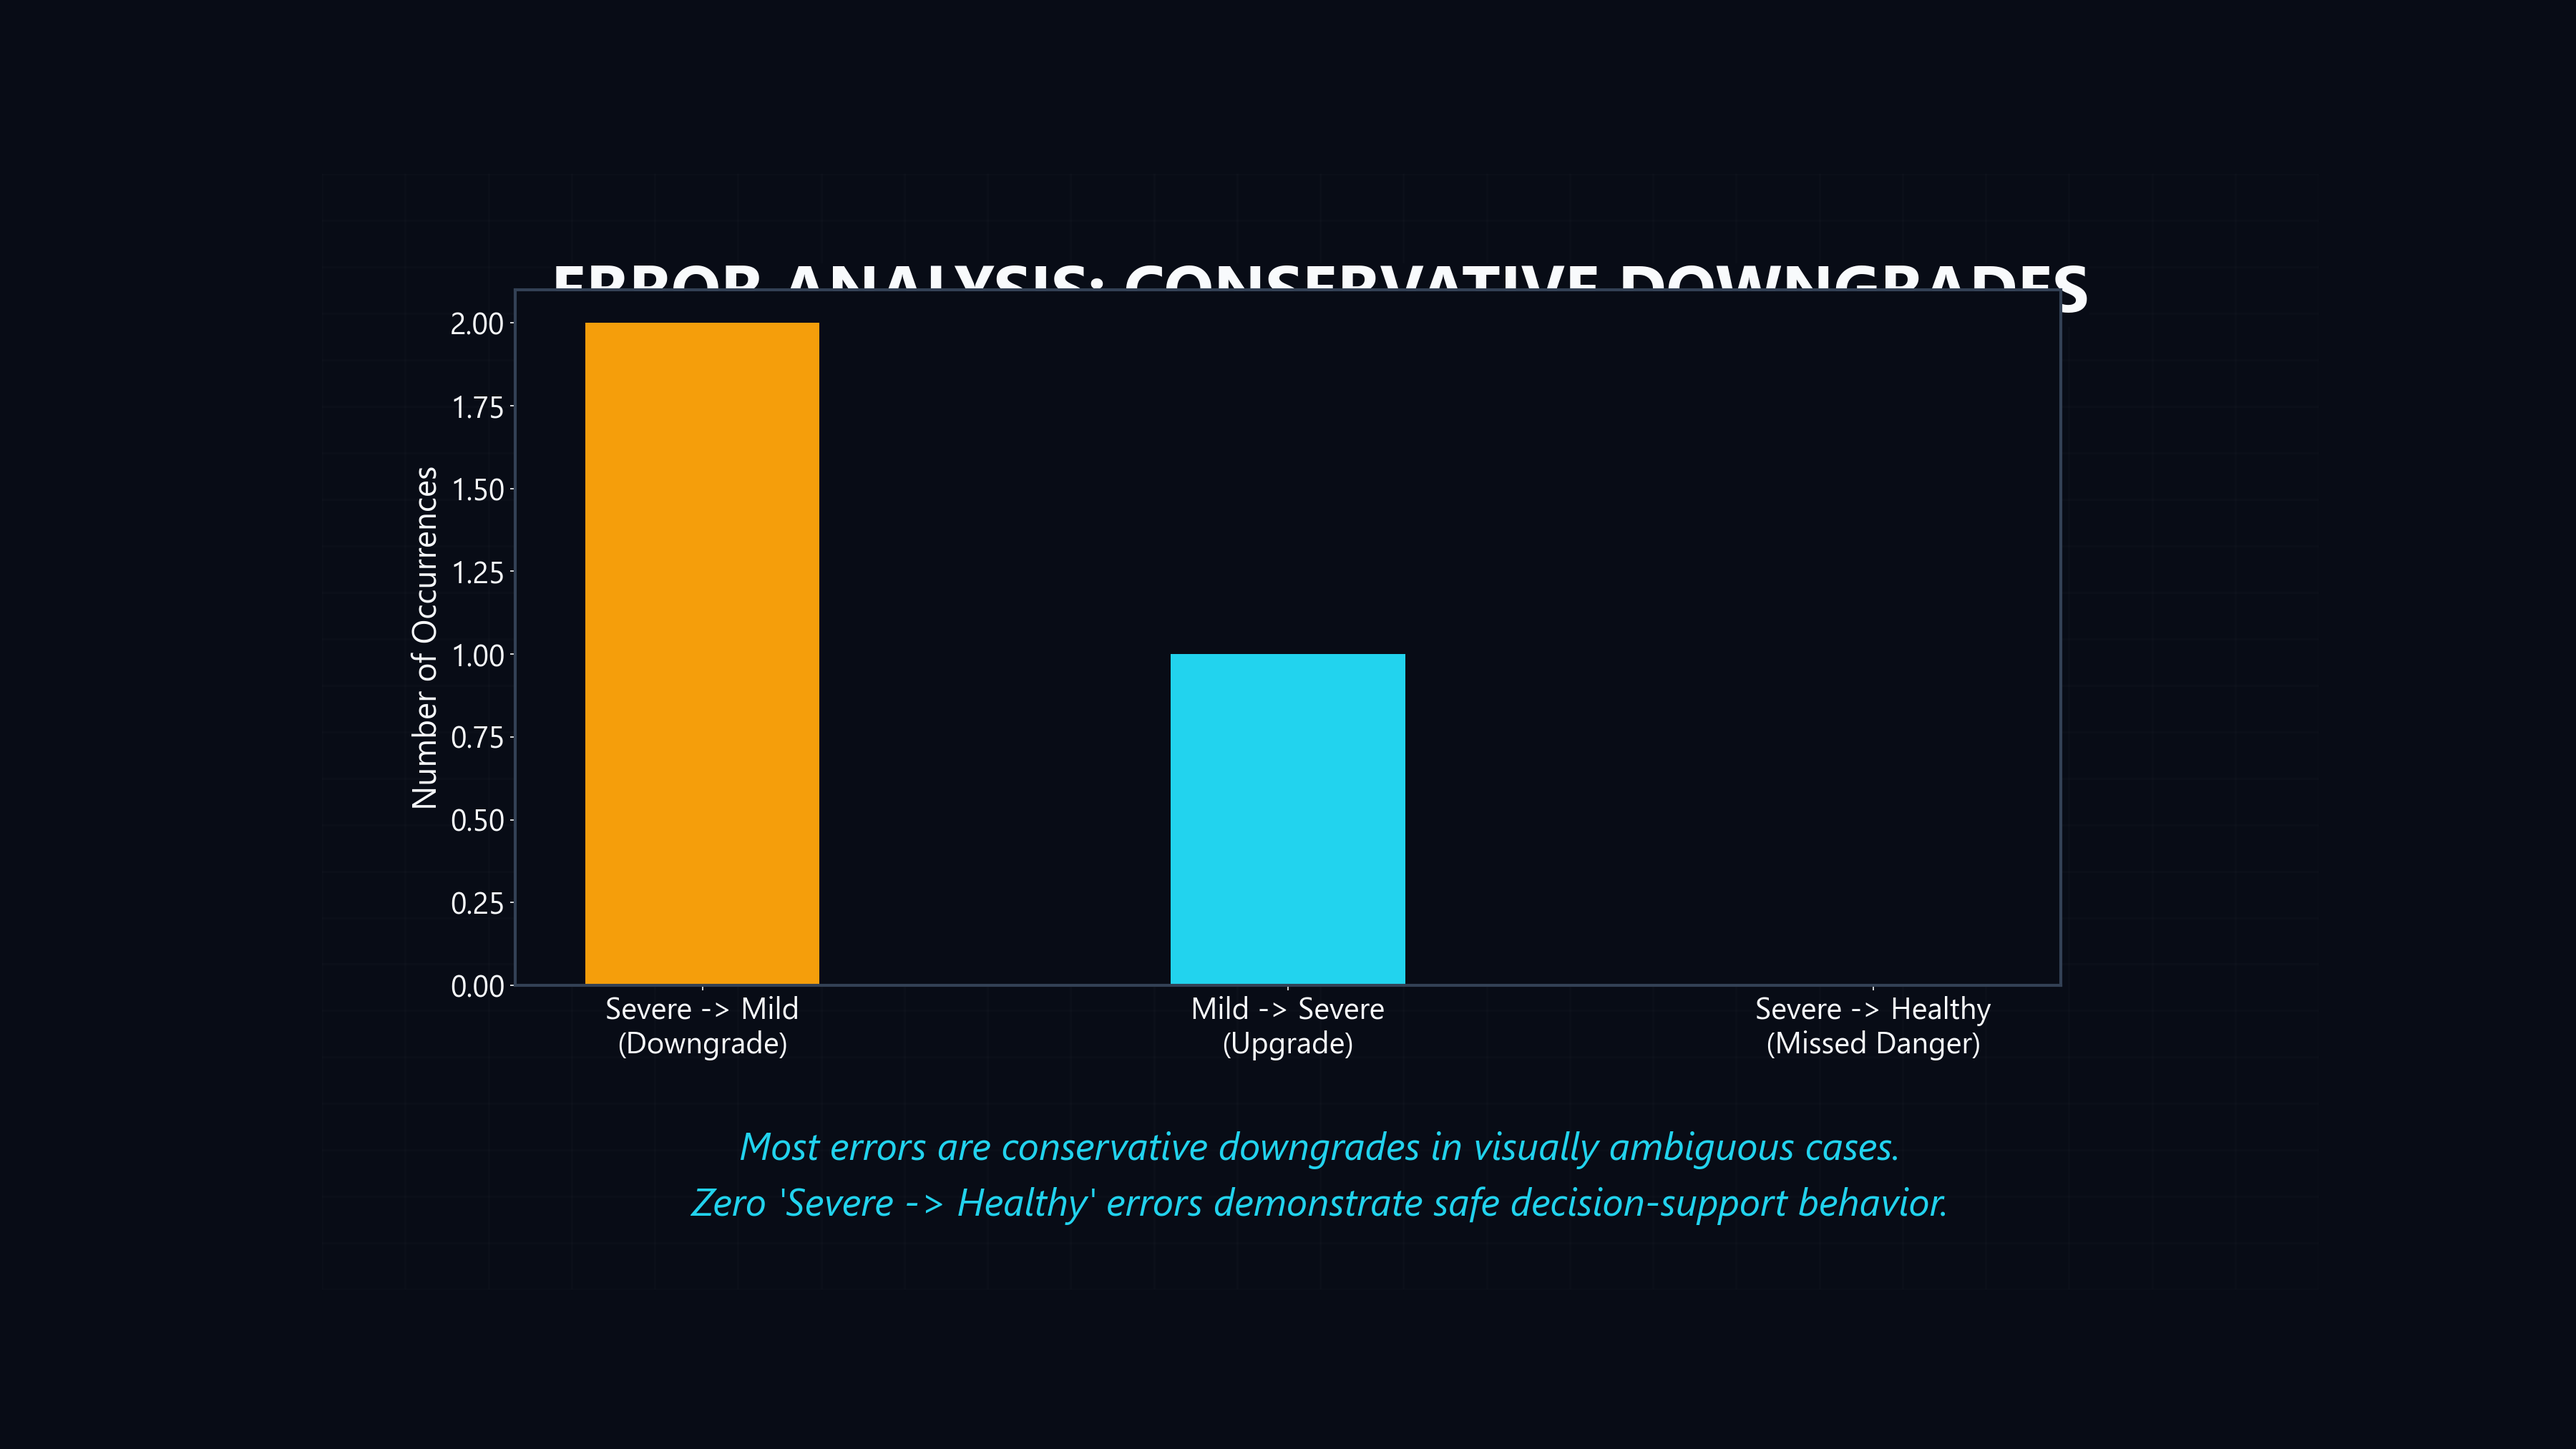
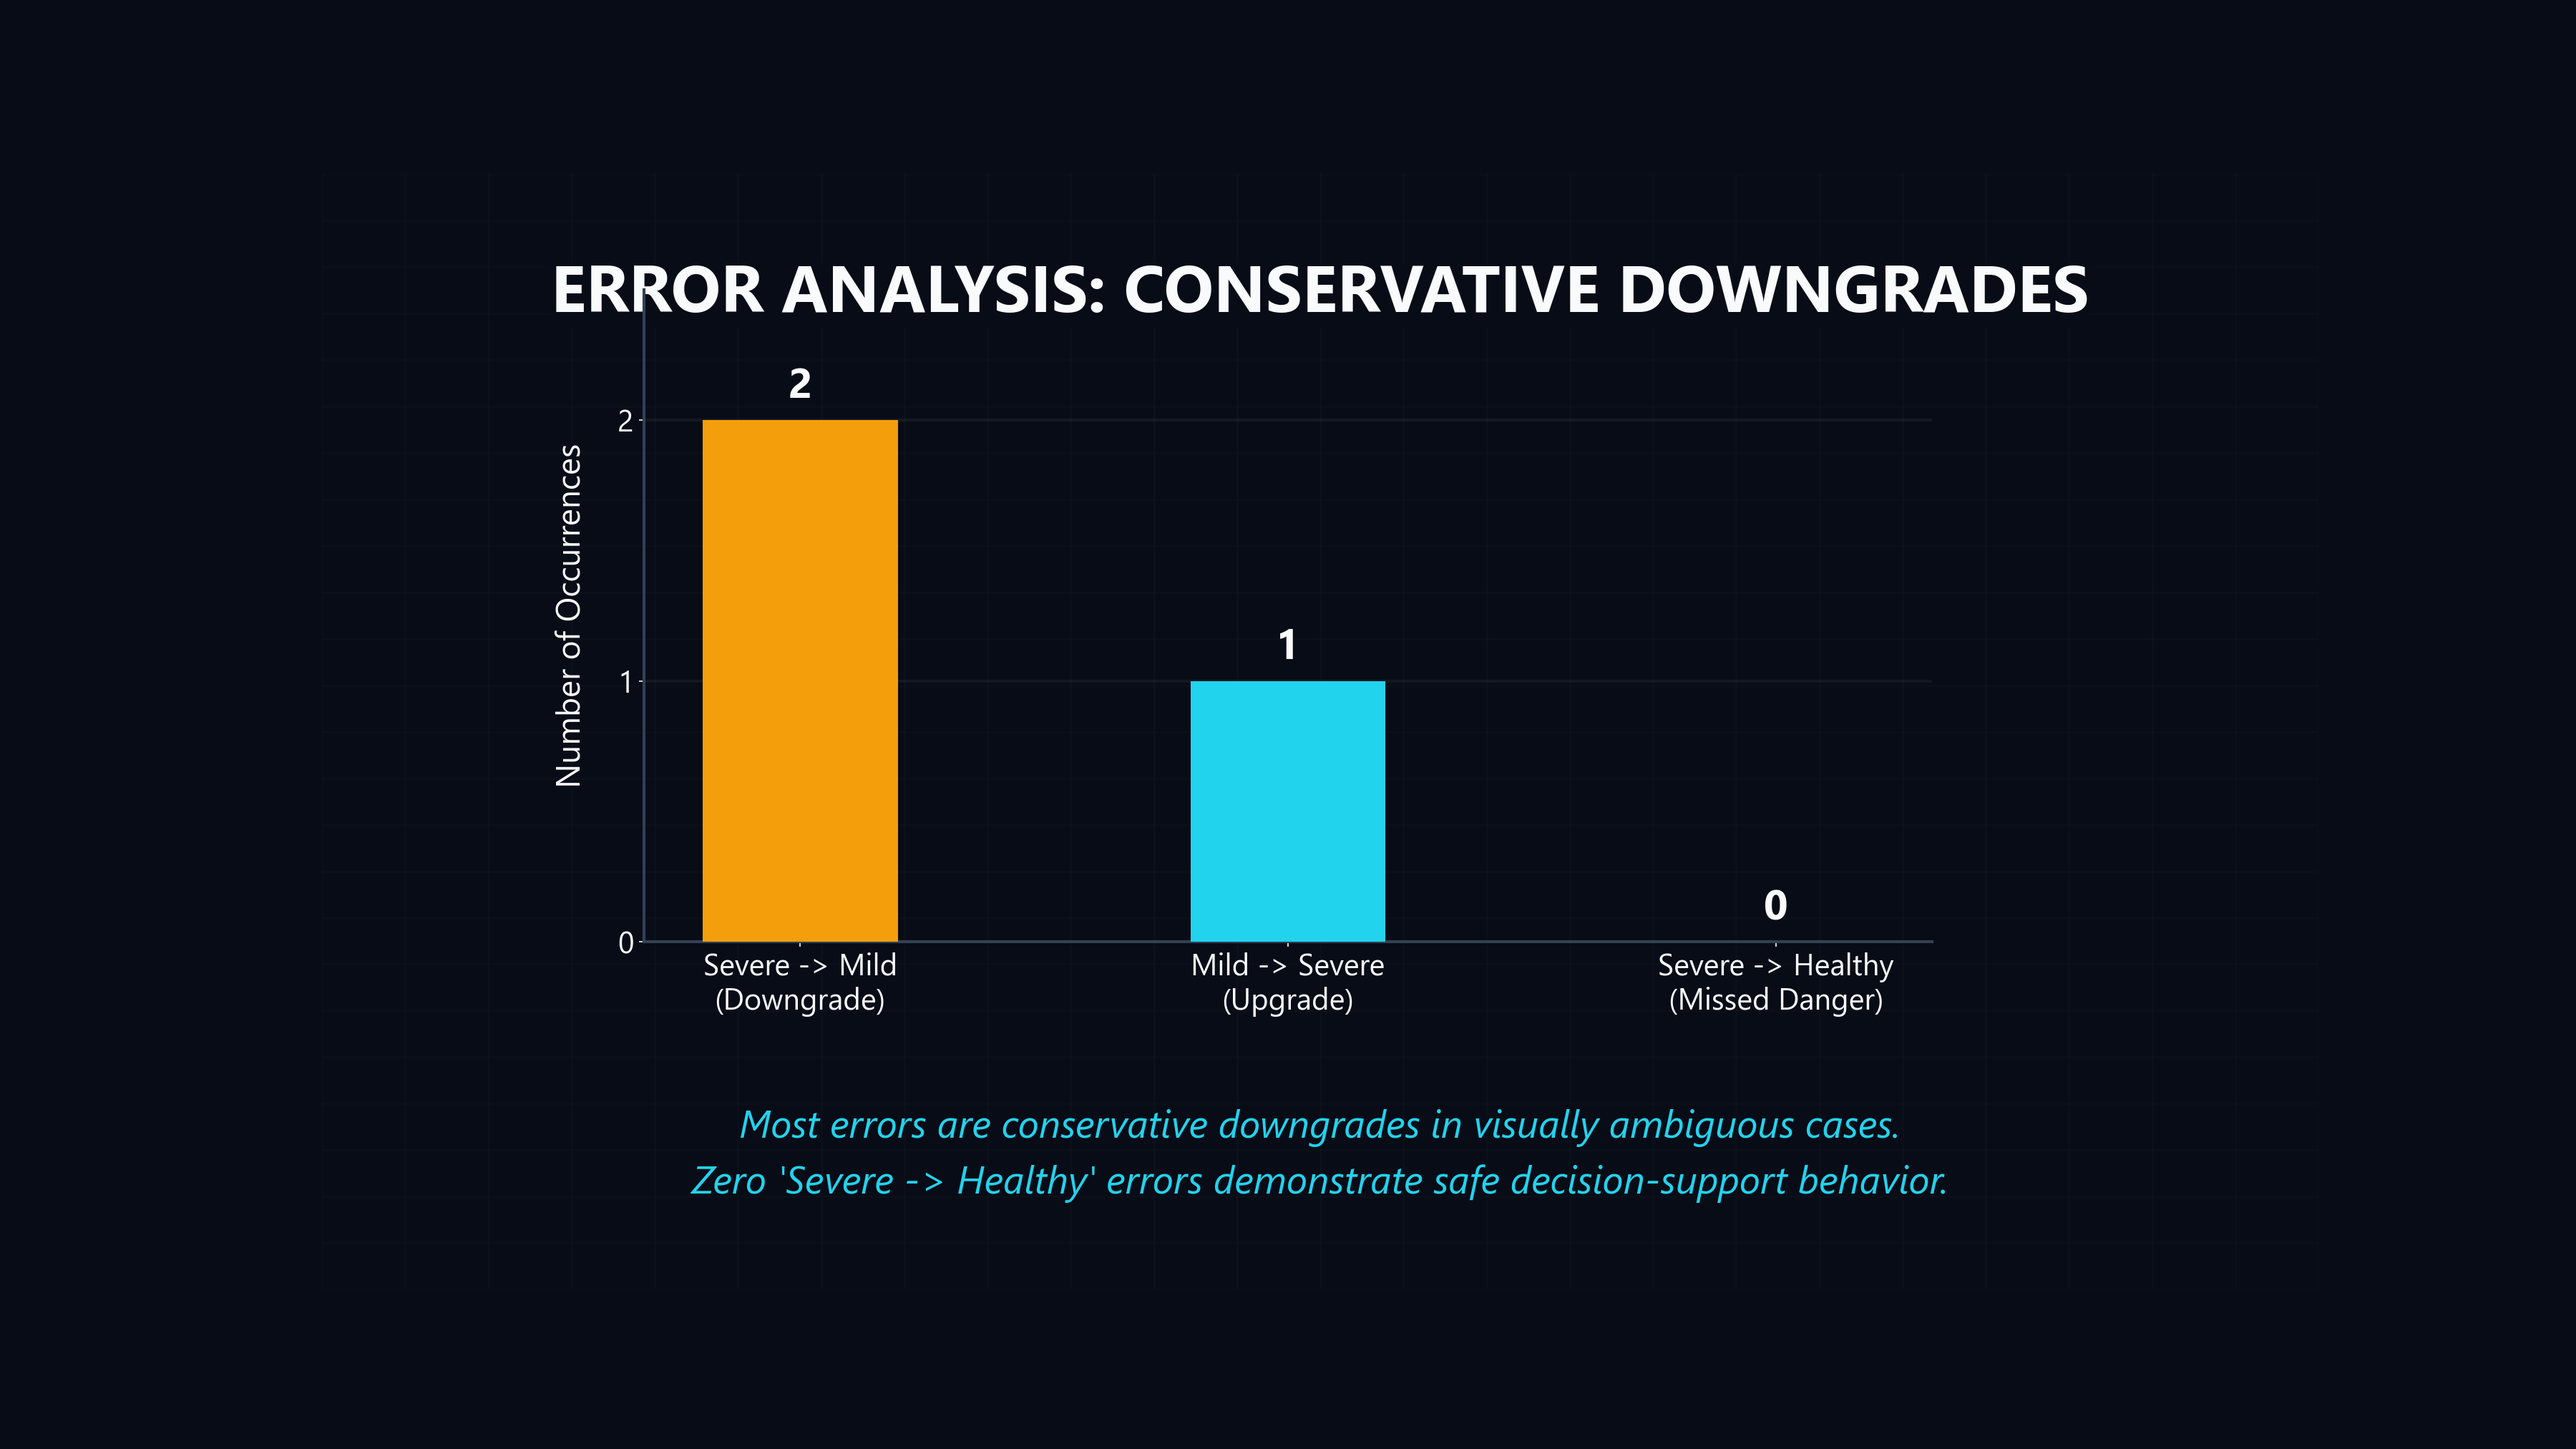
style: Improve bar chart aesthetics in fig_09 (integer y-ticks, bar labels, transparent background, grid)

diff --git a/scripts/generate_academic_figures.py b/scripts/generate_academic_figures.py
@@ -292,16 +292,33 @@ def fig_09_error_analysis():
     values = [2, 1, 0]
     colors = [WARNING_ORANGE, CYAN_GLOW, EMERALD]
     
-    ax_bar = fig.add_axes([0.2, 0.32, 0.6, 0.48])
-    ax_bar.set_facecolor(BG_COLOR)
-    bars = ax_bar.bar(labels, values, color=colors, width=0.4)
-    ax_bar.set_ylabel("Number of Occurrences", color=TEXT_MAIN, fontsize=22)
+    import matplotlib.ticker as ticker
+    
+    ax_bar = fig.add_axes([0.25, 0.35, 0.5, 0.45])
+    ax_bar.set_facecolor('none')
+    bars = ax_bar.bar(labels, values, color=colors, width=0.4, zorder=3)
+    
+    ax_bar.set_ylabel("Number of Occurrences", color=TEXT_MAIN, fontsize=22, labelpad=20)
     ax_bar.tick_params(colors=TEXT_MAIN, labelsize=20)
-    for spine in ax_bar.spines.values():
-        spine.set_color("#334155")
-        spine.set_linewidth(2)
+    ax_bar.yaxis.set_major_locator(ticker.MaxNLocator(integer=True))
+    ax_bar.set_ylim(0, 2.5)
+    
+    ax_bar.set_axisbelow(True)
+    ax_bar.grid(axis='y', color="#ffffff", alpha=0.05, lw=2)
+    
+    ax_bar.spines['top'].set_visible(False)
+    ax_bar.spines['right'].set_visible(False)
+    ax_bar.spines['left'].set_color("#334155")
+    ax_bar.spines['left'].set_linewidth(2)
+    ax_bar.spines['bottom'].set_color("#334155")
+    ax_bar.spines['bottom'].set_linewidth(2)
+    
+    for bar in bars:
+        yval = bar.get_height()
+        ax_bar.text(bar.get_x() + bar.get_width()/2, yval + 0.05, str(int(yval)), 
+                    ha='center', va='bottom', color=TEXT_MAIN, fontsize=28, weight='bold')
         
-    ax.text(0.5, 0.10, "Most errors are conservative downgrades in visually ambiguous cases.\nZero 'Severe -> Healthy' errors demonstrate safe decision-support behavior.", 
+    ax.text(0.5, 0.12, "Most errors are conservative downgrades in visually ambiguous cases.\nZero 'Severe -> Healthy' errors demonstrate safe decision-support behavior.", 
             ha='center', va='center', color=CYAN_GLOW, fontsize=26, style='italic', linespacing=1.6)
 
     plt.savefig(os.path.join(OUTPUT_DIR, "fig_09_error_analysis.png"))
